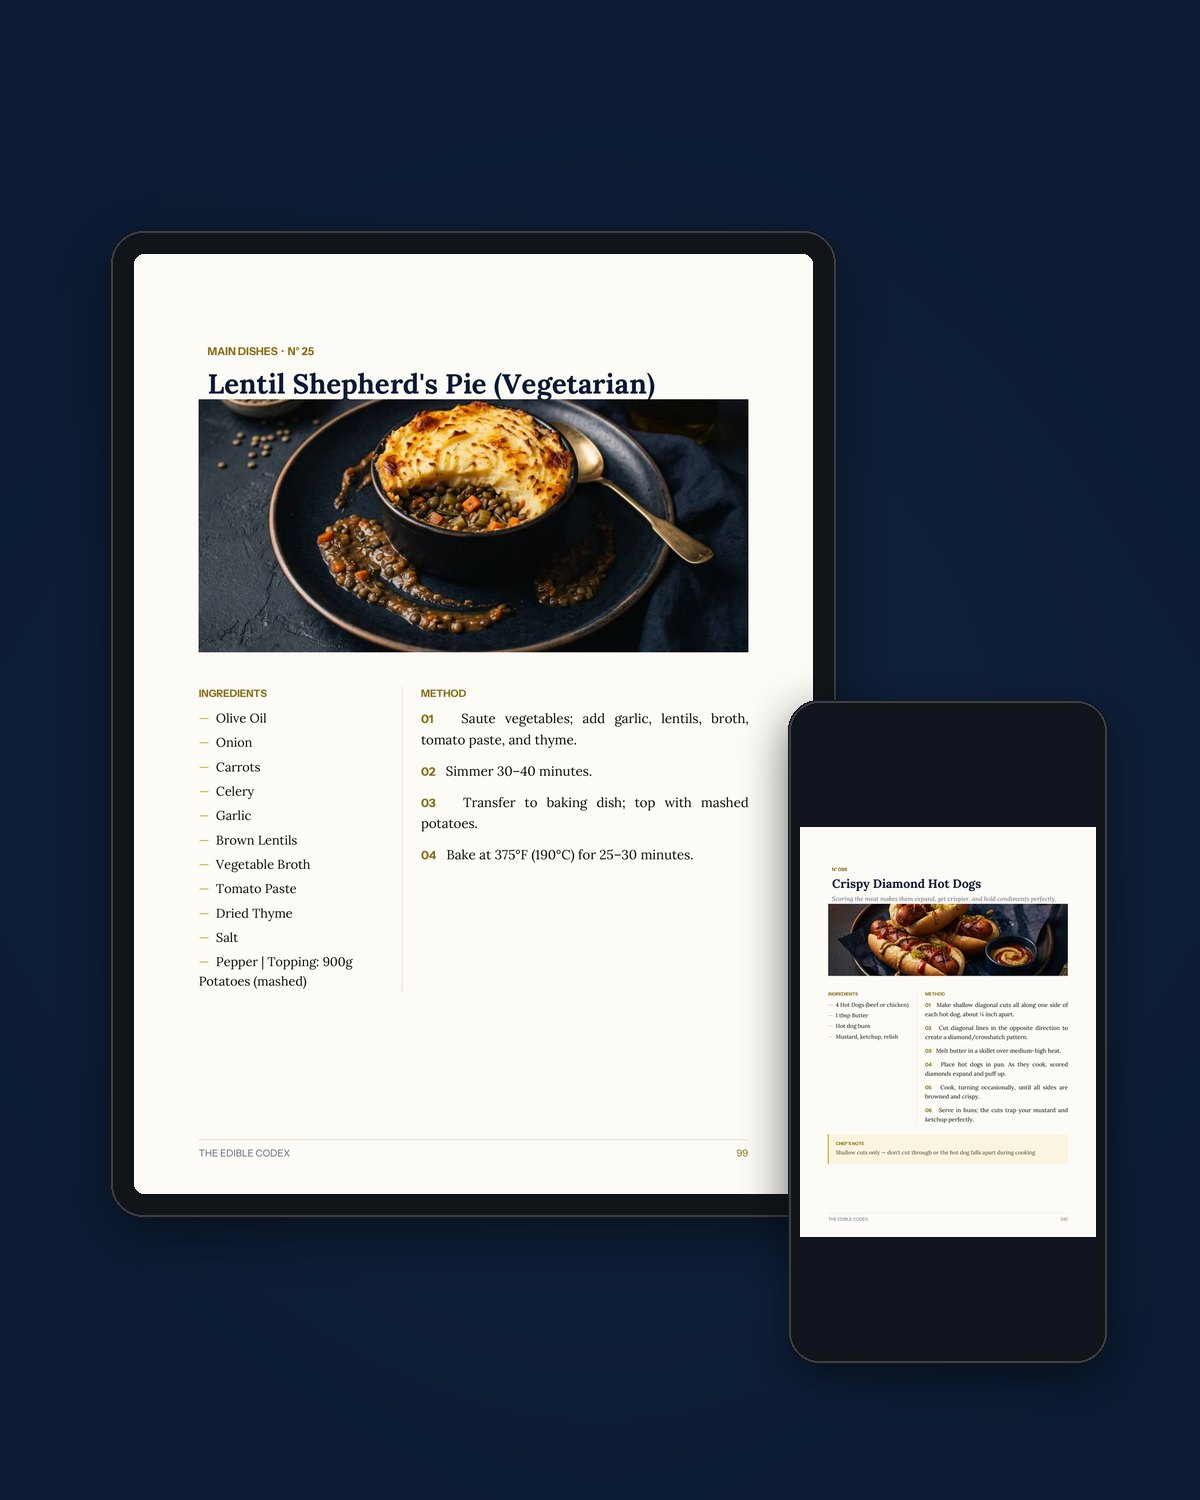
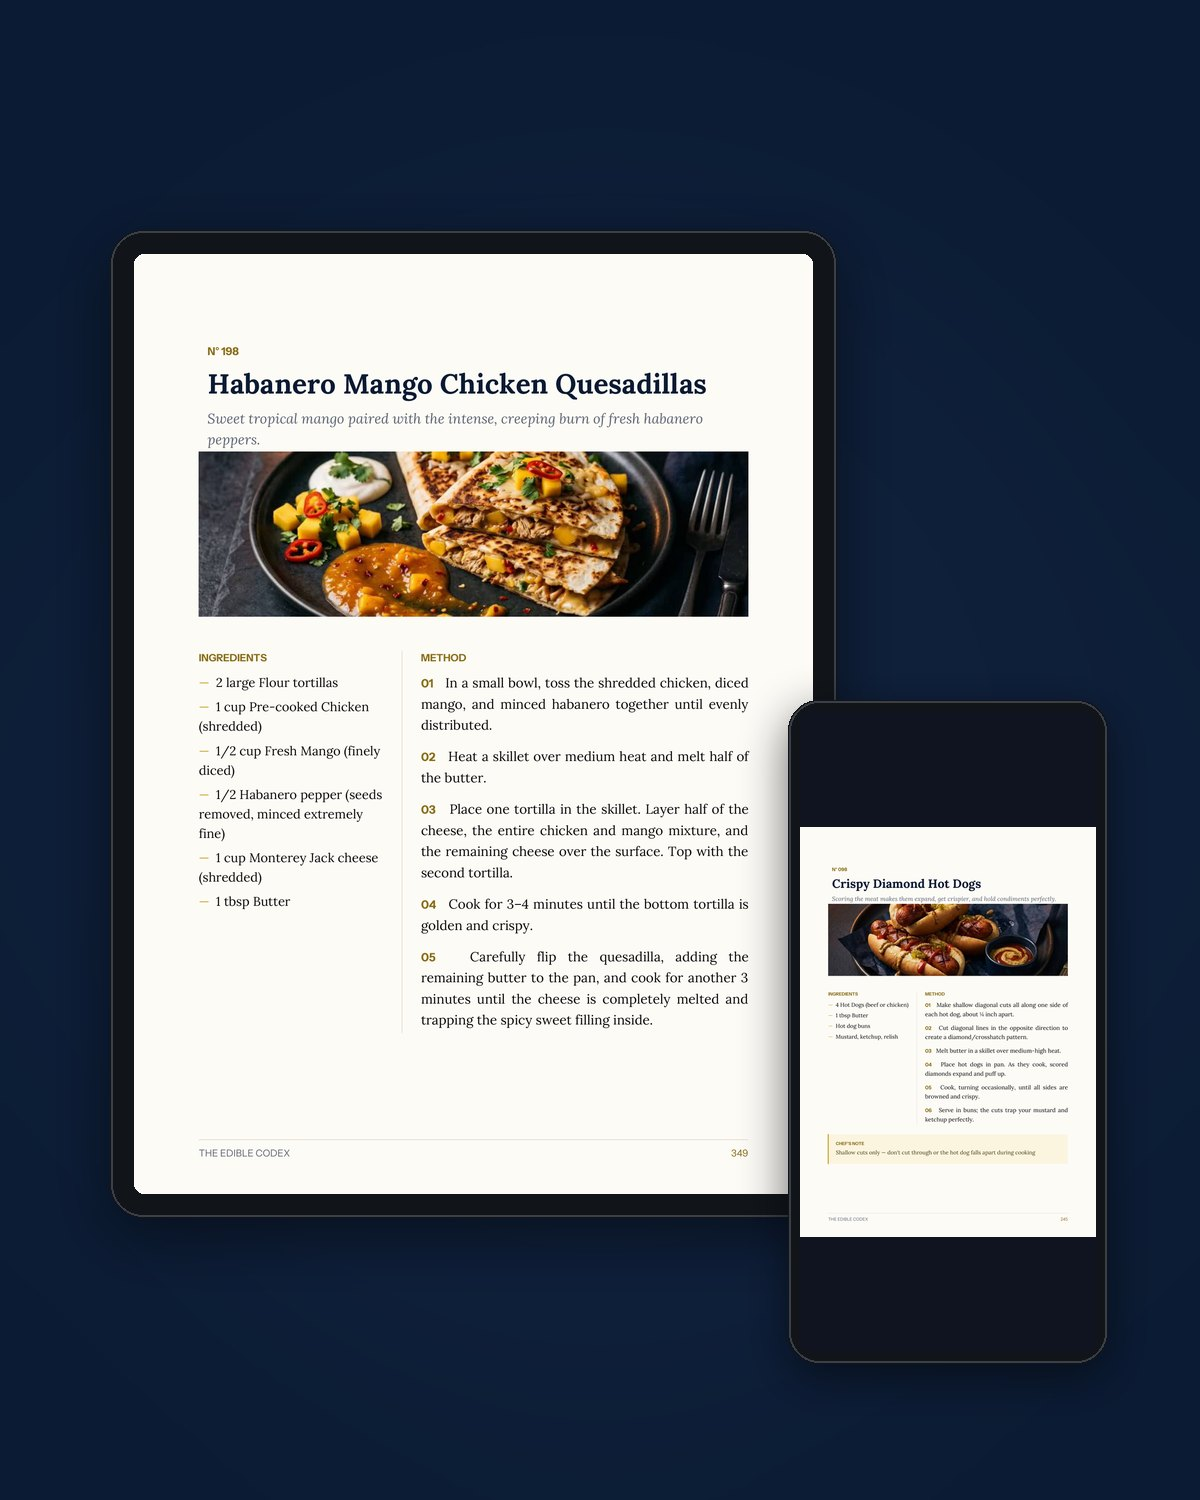
Six gallery images, six different dishes
The tablet in the on-screen shot was showing the same Lentil Shepherd's
Pie as the plain page two thumbnails along, so the gallery read as five
images and a repeat. The tablet now carries the habanero quesadillas.

The home headline also says what the price includes: 261 curated recipes
plus 100 free.

Claude-Session: https://claude.ai/code/session_01TTQeKAFA689qdG4vjzm6Ms

Changed region(s): [[0.1542, 0.2147, 0.6475, 0.7053]]

diff --git a/src/i18n/dictionary.ts b/src/i18n/dictionary.ts
@@ -25,8 +25,8 @@ export const dictionary = {
   "hero.title.line1": { ar: "فنّ الطبق", en: "The Art of" },
   "hero.title.line2": { ar: "الاحترافي", en: "The Plate" },
   "hero.subtitle": {
-    ar: "٢٦١ وصفة مُنسَّقة بعناية، مصوَّرة ومشروحة خطوة بخطوة، من مطبخ محترف إلى مطبخك.",
-    en: "261 curated recipes, photographed and broken down step by step — from a professional kitchen to yours.",
+    ar: "٢٦١ وصفة مُنسَّقة + ١٠٠ وصفة مجاناً، مصوَّرة ومشروحة خطوة بخطوة، من مطبخ محترف إلى مطبخك.",
+    en: "261 curated recipes + 100 free, photographed and broken down step by step — from a professional kitchen to yours.",
   },
   "hero.cta.primary": { ar: "احصل على النسخة", en: "Get the Codex" },
   "hero.cta.secondary": { ar: "تصفّح المتجر", en: "Browse the Shop" },
